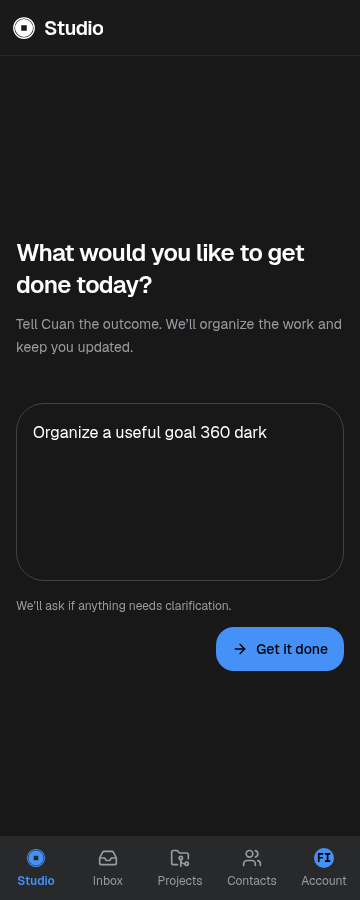
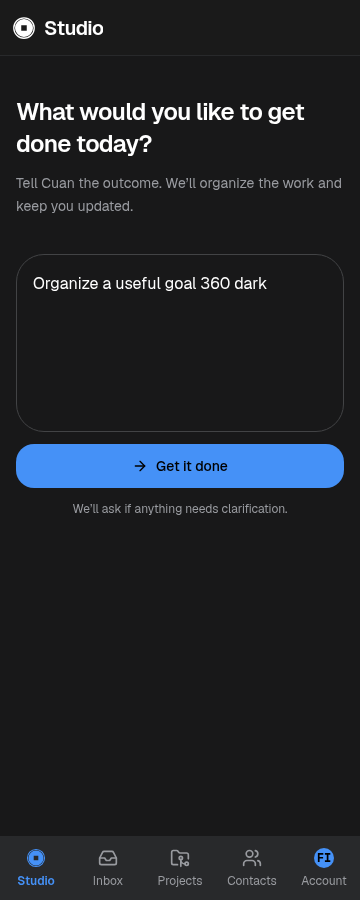
Group Studio mobile input and full-width action

diff --git a/web/src/features/inbox/StudioView.tsx b/web/src/features/inbox/StudioView.tsx
@@ -68,7 +68,7 @@ export function StudioView({ onAccepted }: { onAccepted: () => void }) {
   return (
     <section
       aria-label="Studio"
-      className="mx-auto flex min-h-full w-full max-w-2xl flex-col justify-center py-8 md:py-12"
+      className="mx-auto flex min-h-full w-full max-w-2xl flex-col justify-start py-6 md:justify-center md:py-12"
     >
       <h2 className="text-2xl font-semibold tracking-tight sm:text-3xl">
         What would you like to get done today?
@@ -77,7 +77,7 @@ export function StudioView({ onAccepted }: { onAccepted: () => void }) {
         Tell Cuan the outcome. We’ll organize the work and keep you updated.
       </p>
       <form
-        className="mt-7 space-y-4"
+        className="mt-6 space-y-3"
         onSubmit={(e) => {
           e.preventDefault()
           void submit()
@@ -97,13 +97,13 @@ export function StudioView({ onAccepted }: { onAccepted: () => void }) {
             onChange={(e) => update(e.target.value)}
           />
         </div>
-        <div className="flex flex-col items-end gap-3 sm:flex-row sm:items-center sm:justify-between">
-          <p className="w-full text-xs text-muted-foreground sm:w-auto">
+        <div className="flex flex-col items-stretch gap-3 sm:flex-row sm:items-center sm:justify-between">
+          <p className="order-2 w-full text-center text-xs text-muted-foreground sm:order-none sm:w-auto sm:text-left">
             We’ll ask if anything needs clarification.
           </p>
           <button
             type="submit"
-            className="action-primary"
+            className="action-primary w-full sm:w-auto"
             disabled={busy || !goal.trim()}
           >
             {busy ? (

diff --git a/docs/guides/studio.md b/docs/guides/studio.md
@@ -20,4 +20,4 @@ Named projects use application-generated IDs and controlled local workspace path
 
 ## Visual identity
 
-Studio uses Cuan’s kepeng mark in navigation. The navigation label remains **Studio**, including on mobile. The mark follows the current theme; the navigation mark inherits the active item color. The greeting has no repeated logo. The **Get it done** button sits outside the goal input, right aligned below it. Help text is on the left on desktop and on a separate row on mobile. There is no textarea resize handle. Navigation marks are decorative for assistive technology because the button already has a readable label.
+Studio uses Cuan’s kepeng mark in navigation. The navigation label remains **Studio**, including on mobile. The mark follows the current theme; the navigation mark inherits the active item color. The greeting has no repeated logo. The **Get it done** button sits12px below the goal input. On mobile it fills the input width, with help text beneath and a compact top layout. On desktop the button is right aligned and help text sits on the left. There is no textarea resize handle. Navigation marks are decorative for assistive technology because the button already has a readable label.

diff --git a/docs/evidence/studio-brand/README.md b/docs/evidence/studio-brand/README.md
@@ -12,3 +12,5 @@ Released `97c5f5ebf018b15a808dab9835cf56ab55bcd7df` using the native atomic rele
 Follow-up: external CTA layout replaces the earlier internal composer action. Build and browser checks are rerun for this change.
 
 External CTA follow-up released as `4e040004c466e8dd6e2acf3dc9ba63d2fc937ae5`. Live browser checks passed all eight viewport/theme combinations, explicitly checking the button is outside the textarea frame, aligned right and at least12px below the editable area. Exact build assets and readiness passed;35 retained application tables and706 profile files remain unchanged. No live provider requests.
+
+Mobile layout follow-up: full-width CTA exactly12px below input, centered help text below CTA, greeting near the top instead of vertically centered. Desktop keeps right-aligned CTA and left help text. Build and eight fixture viewport/theme cases passed, including width, gap, compact heading position and no overflow.
